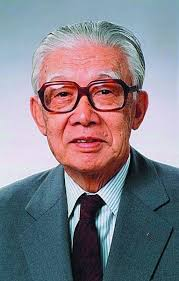
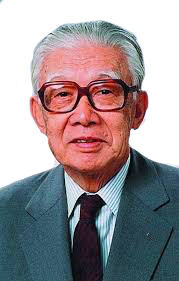
Photo png fond transparent

diff --git a/Technology.html b/Technology.html
@@ -62,7 +62,7 @@
                 </div>
             </article>
             <article class="card" aria-label="Akio Morita, co-fondateur et PDG de Sony">
-                <img src="Morita.webp" alt="Akio Morita">
+                <img src="Morita.png" alt="Akio Morita">
                 <div class="card-content">
                     <h3>Akio Morita</h3>
                     <p class="founder-role">Co-fondateur & PDG</p>
@@ -77,7 +77,7 @@
         <h2 id="inventions-title" class="section-title">Premieres Inventions</h2>
         <div class="cards-container three-cards" role="region" aria-label="Cartes des premieres inventions de Sony">
             <article class="card" aria-label="TR-55, premier transistor radio du Japon en 1955">
-                <img src="TR55.avif" alt="Sony TR-55">
+                <img src="TR55.png" alt="Sony TR-55">
                 <div class="card-content">
                     <h3>TR-55 (1955)</h3>
                     <p>Premier transistor radio du Japon</p>
@@ -93,7 +93,7 @@
                 </div>
             </article>
             <article class="card" aria-label="Walkman, premier lecteur de musique portable en 1979">
-                <img src="Walkman.jpg" alt="Walkman">
+                <img src="Walkman.png" alt="Walkman">
                 <div class="card-content">
                     <h3>Walkman (1979)</h3>
                     <p>Premier lecteur de musique portable au monde</p>
@@ -101,7 +101,7 @@
                 </div>
             </article>
             <article class="card" aria-label="Discman, premier lecteur CD commercial en 1982">
-                <img src="CDplayer.jpg" alt="CD Player">
+                <img src="CDplayer.png" alt="CD Player">
                 <div class="card-content">
                     <h3>Discman (1982)</h3>
                     <p>Premier lecteur CD commercial CDP-101</p>
@@ -109,7 +109,7 @@
                 </div>
             </article>
             <article class="card" aria-label="PlayStation, revolution du jeu video en 1994">
-                <img src="PS1.jpg" alt="PlayStation">
+                <img src="PS1.png" alt="PlayStation">
                 <div class="card-content">
                     <h3>PlayStation (1994)</h3>
                     <p>Revolution du jeu video a domicile</p>
